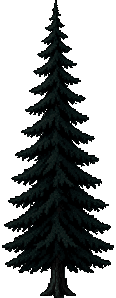
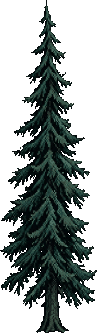
Near road: user's road + pine art (cutout, pixel-scaled, tileable), road width 6.4m/tile 18.4m, bigger near pines with wide size range, per-tree and centre height caps

diff --git a/Assets/Witcher/Scripts/Visuals/NearRoadLayer.cs b/Assets/Witcher/Scripts/Visuals/NearRoadLayer.cs
@@ -30,9 +30,9 @@ namespace Witcher.Visuals
         public float cameraHeight = 0.8f;
         public float focal = 1f;
         [Tooltip("World width covered by the road texture (dirt + grassy verges), metres.")]
-        public float roadWorldWidth = 4.2f;
+        public float roadWorldWidth = 6.4f;
         [Tooltip("World length of one vertical repeat of the road texture, metres.")]
-        public float tileLength = 13.3f;
+        public float tileLength = 18.4f;
         [Tooltip("Road centre at the bottom of the screen (0..1 of width).")]
         [Range(0f, 1f)] public float nearCenterX = 0.5f;
         [Tooltip("Road centre at the far end, lined up with the painted path in the vista.")]
@@ -58,19 +58,35 @@ namespace Witcher.Visuals
         [Tooltip("Extra gap between the road texture's dirt edge and row 0 (m). 0 = trees stand right at the edge.")]
         public float sideMin = 0f;
         [Tooltip("Where the dirt ends inside the road texture, as a fraction of its half width.")]
-        [Range(0f, 1f)] public float dirtEdge = 0.62f;
+        [Range(0f, 1f)] public float dirtEdge = 0.42f;
         [Tooltip("Lateral distance between rows (m).")]
         public float rowSpacing = 0.9f;
         [Tooltip("Random lateral jitter inside a row (m).")]
         public float rowJitter = 0.45f;
-        public float heightMin = 2.0f;
-        public float heightMax = 3.0f;
-        [Tooltip("Soft cap on a pine's on-screen height (fraction of screen height) so close trees stay in the bottom area and never cover the castle.")]
-        [Range(0.1f, 2f)] public float maxScreenHeight = 0.5f;
+        [Tooltip("Smallest world height of a near pine (m).")]
+        public float heightMin = 1.4f;
+        [Tooltip("Largest world height of a near pine (m).")]
+        public float heightMax = 4.2f;
+        [Tooltip(">1 = more small trees with a few big ones, <1 = mostly big trees.")]
+        [Range(0.3f, 3f)] public float sizeSkew = 1.3f;
+        [Tooltip("Chance that a pine is an extra-tall 'giant'.")]
+        [Range(0f, 1f)] public float giantChance = 0.15f;
+        [Tooltip("Height multiplier for giant pines.")]
+        public float giantScale = 1.35f;
+        [Tooltip("Soft cap on the on-screen height of the TALLEST pines (fraction of screen height); smaller pines get a proportionally lower cap so close trees still differ in size and stay off the castle.")]
+        [Range(0.1f, 2f)] public float maxScreenHeight = 0.55f;
+        [Tooltip("On-screen cap of the smallest pine, relative to maxScreenHeight.")]
+        [Range(0.1f, 1f)] public float minCapFraction = 0.45f;
+        [Tooltip("Height cap multiplier for pines in the middle of the screen (keeps the castle hill / painted path visible).")]
+        [Range(0.1f, 1f)] public float centerCapFraction = 0.5f;
+        [Tooltip("Within this distance from the screen centre (fraction of width) the centre cap applies fully...")]
+        [Range(0f, 0.5f)] public float clearZoneInner = 0.12f;
+        [Tooltip("...and beyond this distance pines get the full cap.")]
+        [Range(0f, 0.5f)] public float clearZoneOuter = 0.4f;
         [Tooltip("Each row further out is this much smaller (fraction).")]
-        [Range(0f, 0.5f)] public float rowShrink = 0.1f;
+        [Range(0f, 0.5f)] public float rowShrink = 0.08f;
         [Tooltip("Colour multiplier for the near pines (lower = darker).")]
-        [Range(0f, 1f)] public float pineTint = 0.72f;
+        [Range(0f, 1f)] public float pineTint = 0.55f;
         [Tooltip("Each row further out is this much lighter.")]
         [Range(0f, 0.3f)] public float rowLighten = 0.08f;
         [Tooltip("Random brightness variation per tree.")]
@@ -96,6 +112,7 @@ namespace Witcher.Visuals
             public float side;
             public float tint;
             public float sortKey;
+            public float size01;  // 0 smallest .. 1 tallest (drives the per-tree screen cap)
         }
 
         RectTransform _rect;
@@ -209,7 +226,11 @@ namespace Witcher.Visuals
             float edge = roadWorldWidth * 0.5f * dirtEdge + sideMin;
             p.x = p.side * (edge + p.row * rowSpacing + (float)_rng.NextDouble() * rowJitter);
             float shrink = Mathf.Max(0.2f, 1f - rowShrink * p.row);
-            p.height = Mathf.Lerp(heightMin, heightMax, (float)_rng.NextDouble()) * shrink;
+            float r01 = Mathf.Pow((float)_rng.NextDouble(), Mathf.Max(0.05f, sizeSkew));
+            if (_rng.NextDouble() < giantChance) r01 = Mathf.Min(1f, r01 + 0.5f);
+            p.size01 = r01;
+            p.height = Mathf.Lerp(heightMin, heightMax, r01) * shrink;
+            if (r01 >= 0.999f || _rng.NextDouble() < giantChance * 0.5f) p.height *= Mathf.Max(1f, giantScale);
             p.tint = Mathf.Clamp01(pineTint * (1f + rowLighten * p.row) + ((float)_rng.NextDouble() * 2f - 1f) * tintJitter);
             Texture2D t = null;
             for (int k = 0; k < _pineTex.Length && t == null; k++)
@@ -370,12 +391,15 @@ namespace Witcher.Visuals
 
                 float yb = horizon - cameraHeight * focal / z;           // base height (fraction from bottom)
                 float hFrac = p.height * focal / z;                      // tree height in screen heights
-                float cap = Mathf.Max(0.05f, maxScreenHeight);
-                hFrac = cap * (float)System.Math.Tanh(hFrac / cap);      // soft cap: close trees stay low
+                float xPx = (CenterX(Mathf.Max(0f, yb)) + (p.x * focal / z) / aspect) * size.x;
+                float dxc = Mathf.Abs(xPx / size.x - 0.5f);
+                float clear = Mathf.SmoothStep(0f, 1f, Mathf.InverseLerp(clearZoneInner, Mathf.Max(clearZoneInner + 0.001f, clearZoneOuter), dxc));
+                float cap = maxScreenHeight * Mathf.Lerp(minCapFraction, 1f, p.size01) * Mathf.Lerp(centerCapFraction, 1f, clear);
+                cap = Mathf.Max(0.05f, cap);
+                hFrac = cap * (float)System.Math.Tanh(hFrac / cap);      // soft cap: close trees stay low, centre stays open
                 float alpha = Mathf.Clamp01((nearClip + spanSafe - z) / Mathf.Max(0.01f, emergeLength));
                 float hPx = hFrac * size.y;
                 float wPx = p.tex != null ? hPx * p.tex.width / (float)p.tex.height : hPx * 0.4f;
-                float xPx = (CenterX(Mathf.Max(0f, yb)) + (p.x * focal / z) / aspect) * size.x;
 
                 bool visible = p.tex != null && alpha > 0.003f && hPx > 1.5f
                                && xPx + wPx * 0.5f > 0f && xPx - wPx * 0.5f < size.x
